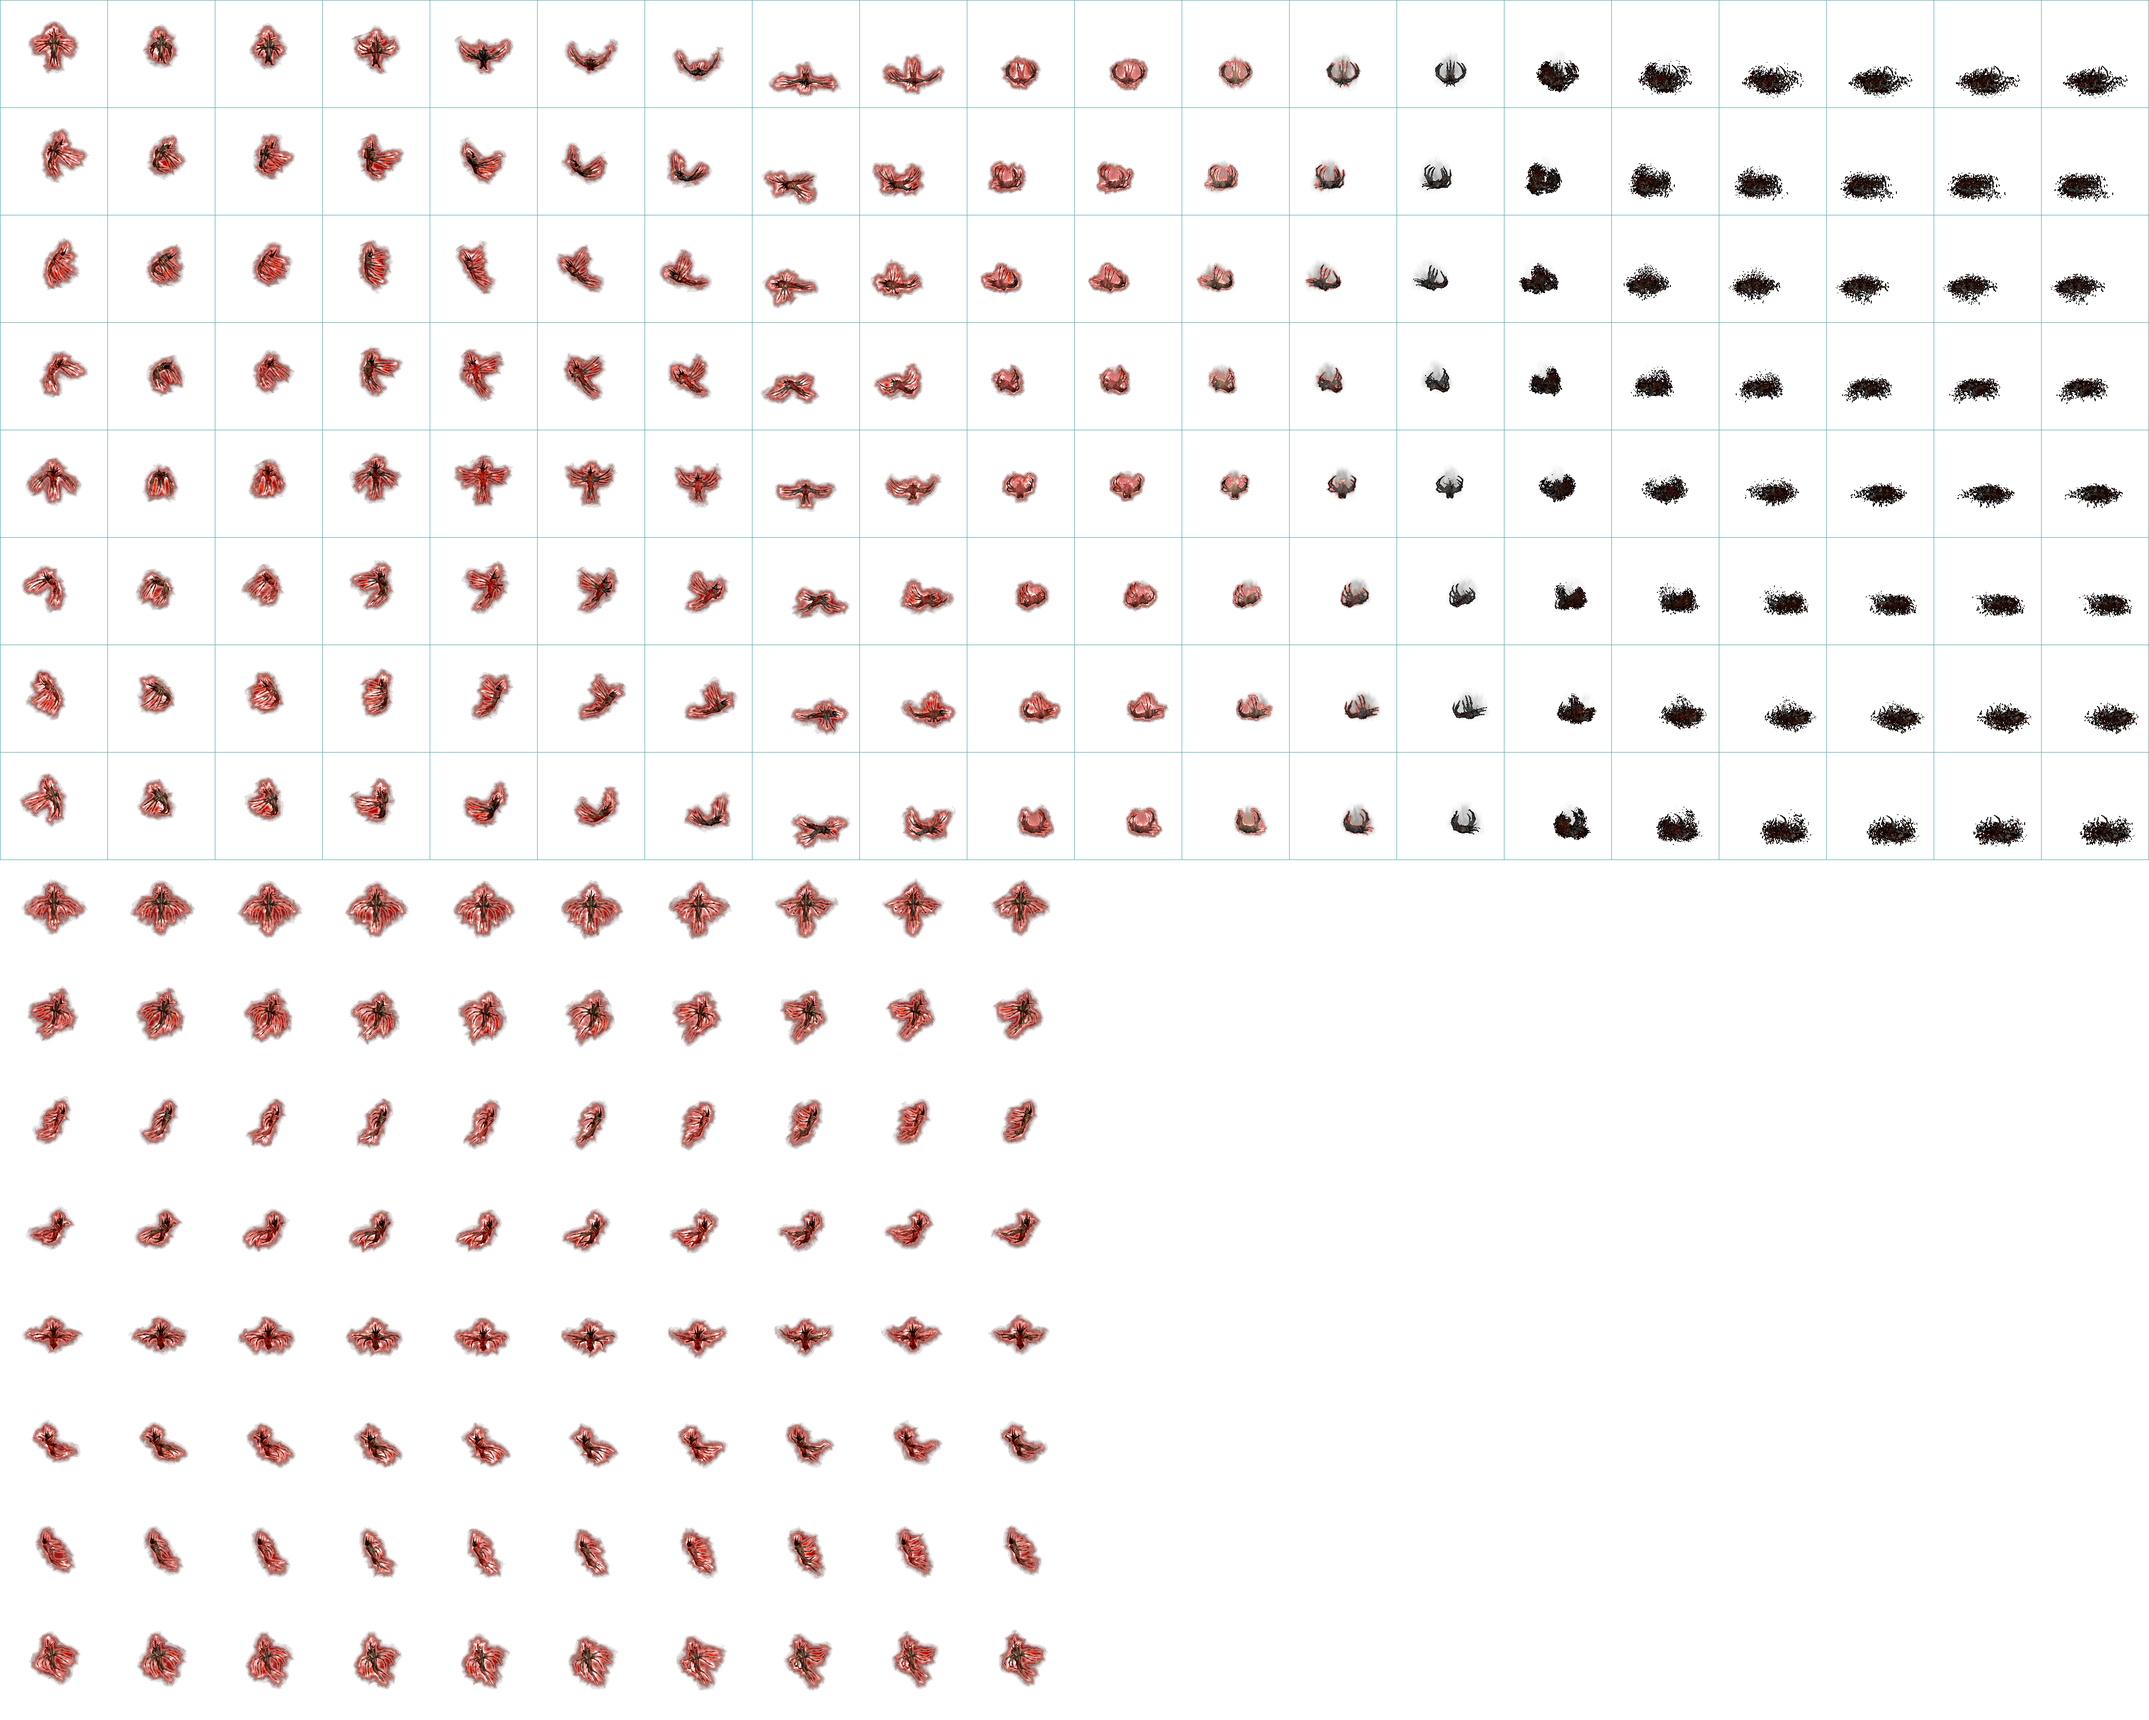
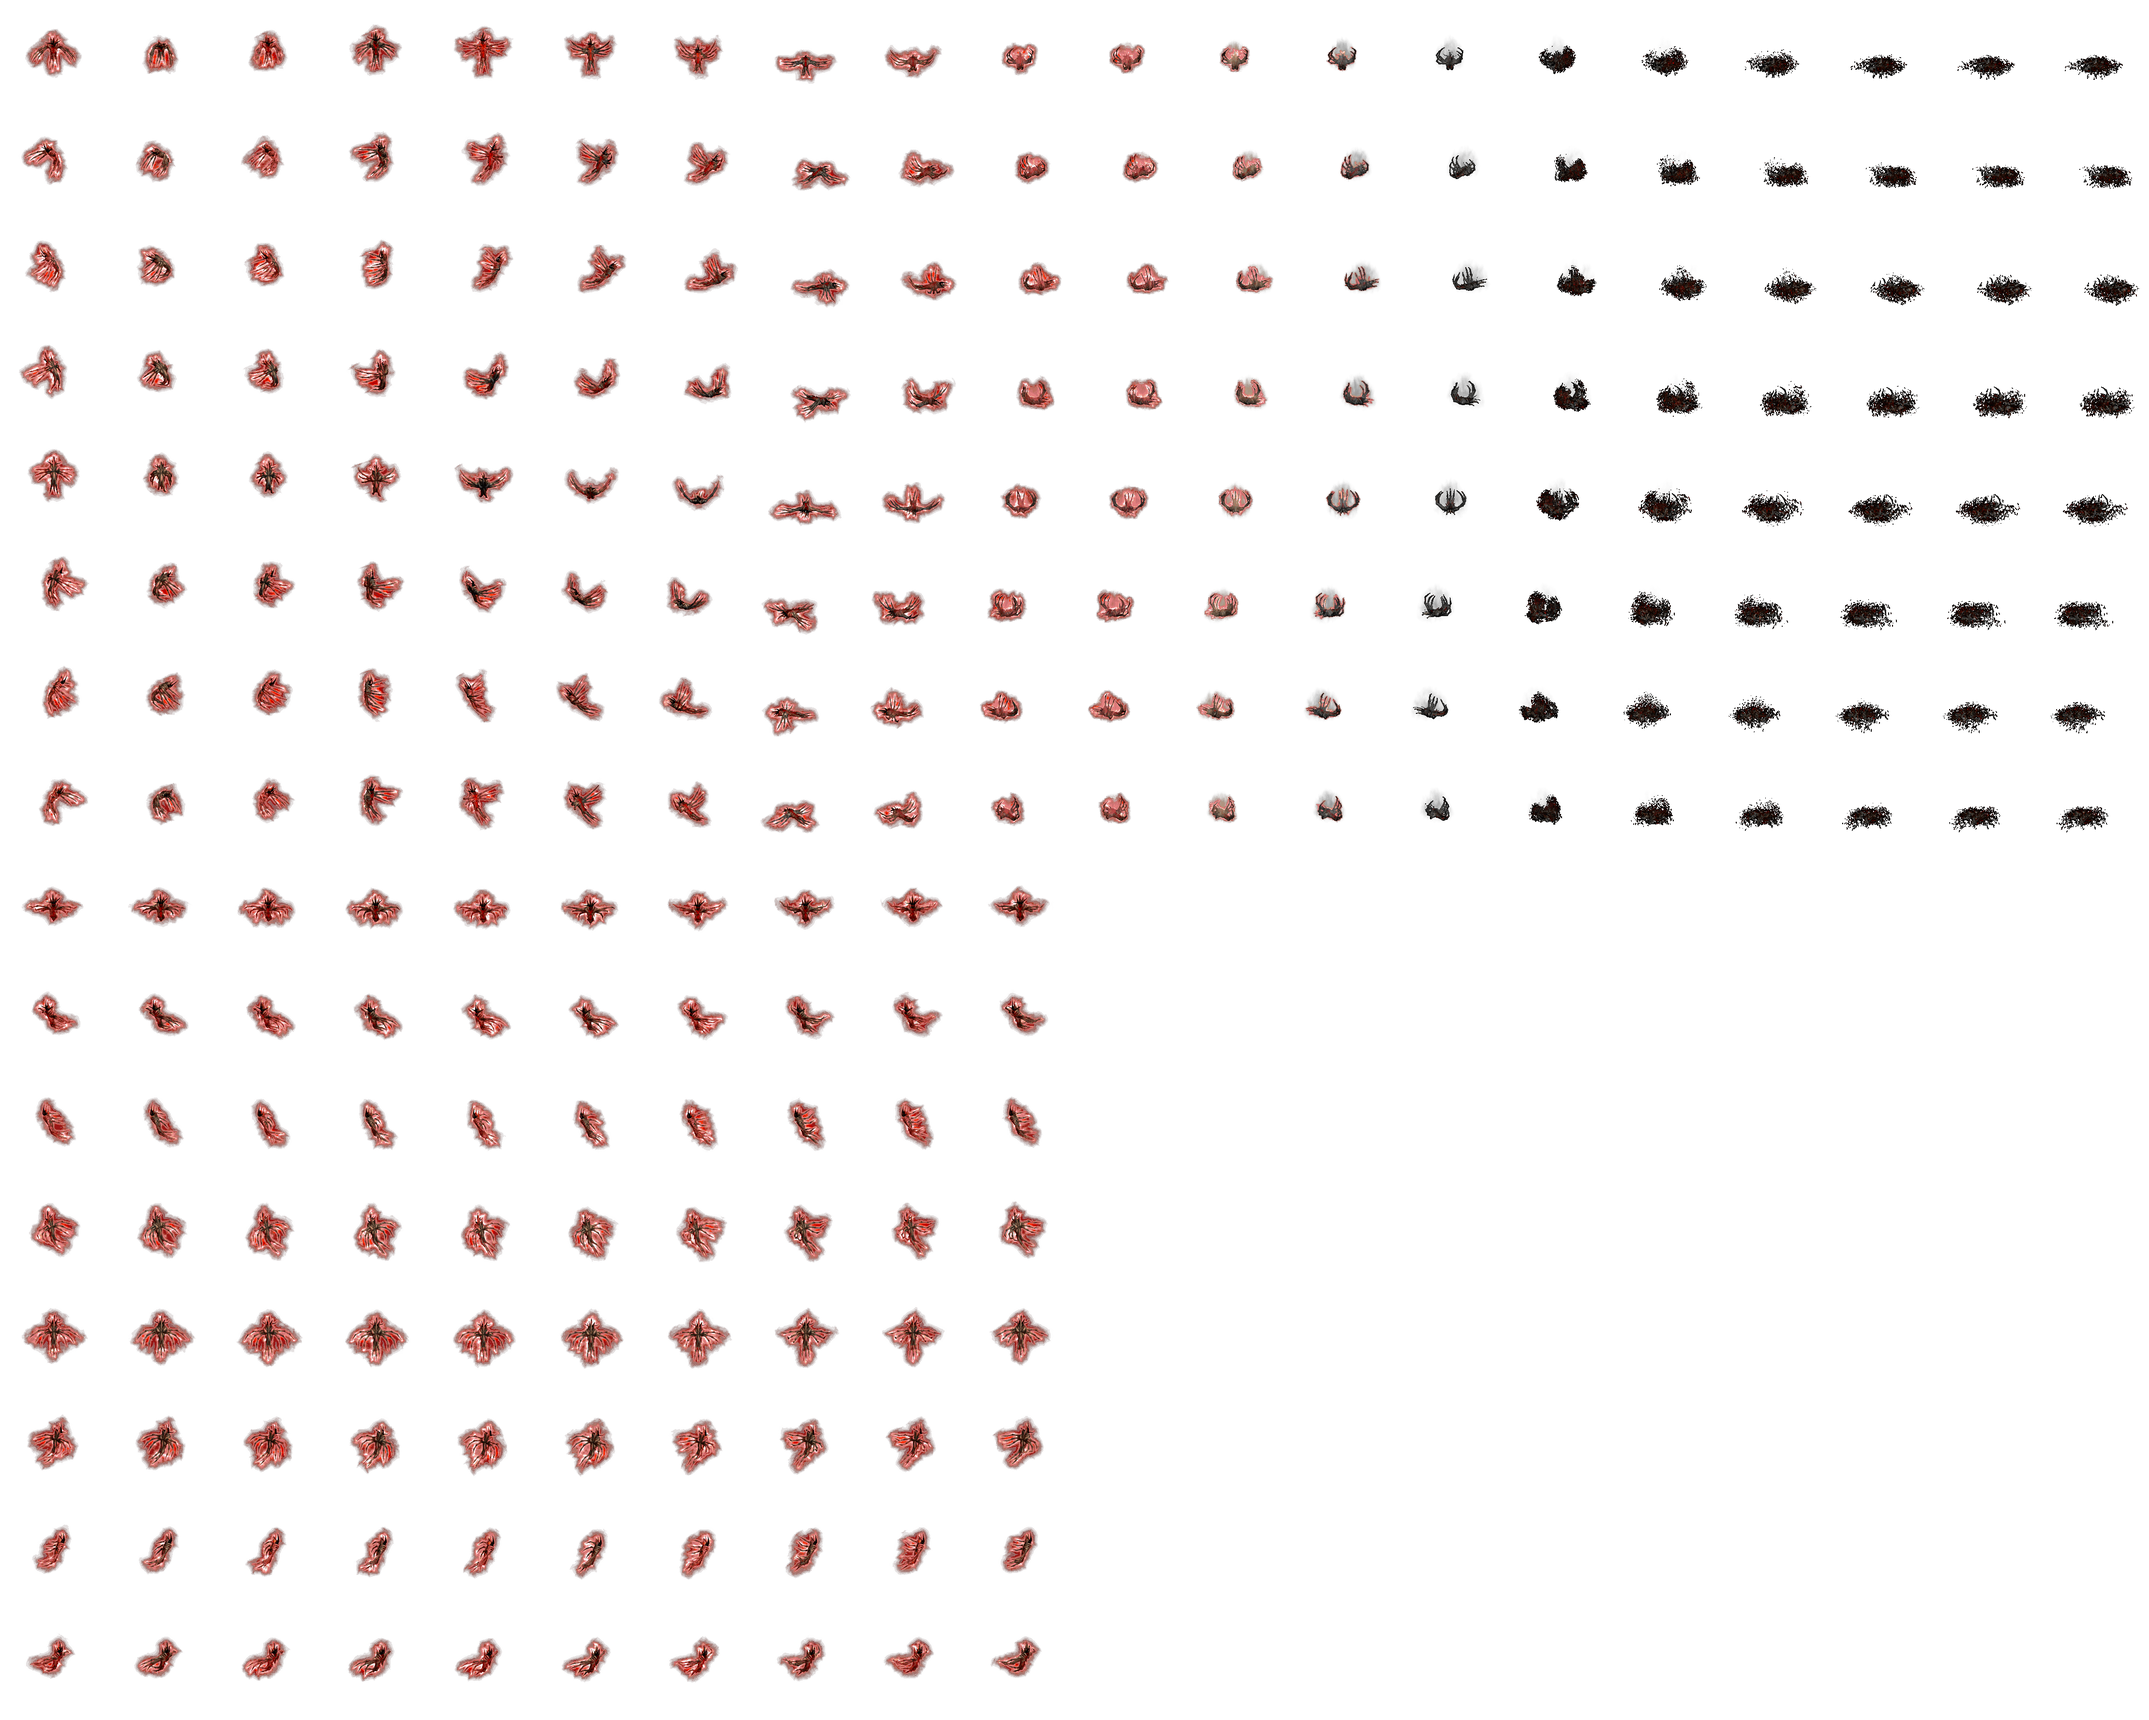
Arreglados sprites para el resto de las unidades y configuradas en su archivo yaml. Ya se muestran todos los enemigos del juego

diff --git a/main.cpp b/main.cpp
@@ -31,7 +31,7 @@ int main(int argc, char** argv) {
     SDL_Init(SDL_INIT_VIDEO);
     Window window(TITLE, WINDOWWIDTH, WINDOWHEIGHT);
     Renderer renderer(window, MAPSIZE, MAPSIZE);
-    TextureLoader textureLoader(renderer.getRenderer());
+    TextureLoader textureLoader(renderer.getRenderer(), 0);
 
     MapView mapView(MAPSIZE, MAPSIZE, PRADERA, renderer, textureLoader);
 
@@ -88,31 +88,23 @@ int main(int argc, char** argv) {
 
             switch (event.type) {
                 case SDL_QUIT:
-                    quit = true;
-                    break;
+                    quit = true; break;
                 case SDL_KEYDOWN:
                     switch (event.key.keysym.sym) {
                         case SDLK_ESCAPE:
-                            quit = true;
-                            break;
+                            quit = true; break;
                         case SDLK_i:
-                            renderer.zoomIn();
-                            break;
+                            renderer.zoomIn(); break;
                         case SDLK_o:
-                            renderer.zoomOut();
-                            break;
+                            renderer.zoomOut(); break;
                         case SDLK_LEFT:
-                            renderer.updateCamera(-1, 0);
-                            break;
+                            renderer.updateCamera(-1, 0); break;
                         case SDLK_RIGHT:
-                            renderer.updateCamera(1, 0);
-                            break;
+                            renderer.updateCamera(1, 0); break;
                         case SDLK_UP:
-                            renderer.updateCamera(0, -1);
-                            break;
+                            renderer.updateCamera(0, -1); break;
                         case SDLK_DOWN:
-                            renderer.updateCamera(0, 1);
-                            break;
+                            renderer.updateCamera(0, 1); break;
                     }
             }
         }

diff --git a/View/Model/ShotView.cpp b/View/Model/ShotView.cpp
@@ -22,6 +22,8 @@
 #define SHOT_OFFSET_X 50
 #define SHOT_OFFSET_Y 70
 
+#define H_FACTOR 40
+
 ShotView::ShotView(int key, TextureLoader &textures, Renderer &renderer) :
         renderer(renderer),
         spriteShot(textures.getTexture(key), renderer,
@@ -79,7 +81,7 @@ void ShotView::shoot(int fromX, int fromY, int toX, int toY, Uint32 t) {
     int cx = renderer.cartesianToIsometricX(fromX, fromY);
     int cy = renderer.cartesianToIsometricY(fromX, fromY);
     int dstX = renderer.cartesianToIsometricX(toX, toY);
-    int dstY = renderer.cartesianToIsometricY(toX, toY);
+    int dstY = renderer.cartesianToIsometricY(toX, toY) - H_FACTOR;
     totalDistanceX = dstX - cx + SHOT_FIRE_OFFSET_X - SHOT_OFFSET_X;
     totalDistanceY = dstY - cy + SHOT_FIRE_OFFSET_Y - SHOT_OFFSET_Y;
     requiredTime = t;

diff --git a/View/Common/TextureLoader.cpp b/View/Common/TextureLoader.cpp
@@ -62,4 +62,12 @@ std::string TextureLoader::intToStringKey(int key) {
         return "ABOMINABLE";
     if (key == HALCONSANGRIENTO)
         return "HALCONSANGRIENTO";
+    if (key == DEMONIOVERDE)
+        return "DEMONIOVERDE";
+    if (key == ESPECTRO)
+        return "ESPECTRO";
+    if (key == HOMBRECABRA)
+        return "HOMBRECABRA";
+    if (key == NOMUERTO)
+        return "NOMUERTO";
 }

diff --git a/View/mainView.cpp b/View/mainView.cpp
@@ -71,7 +71,7 @@ int main(int argc, char** argv) {
     SpellView fireWall = SpellView(FIREWALL, textureLoader, renderer);
 
     //Creo una unidad en el 0,0
-    UnitView unit(HALCONSANGRIENTO, textureLoader, renderer);
+    UnitView unit(HOMBRECABRA, textureLoader, renderer);
     unit.move(0, 0, 1, 0, 3000);
 
     Uint32 t1;
